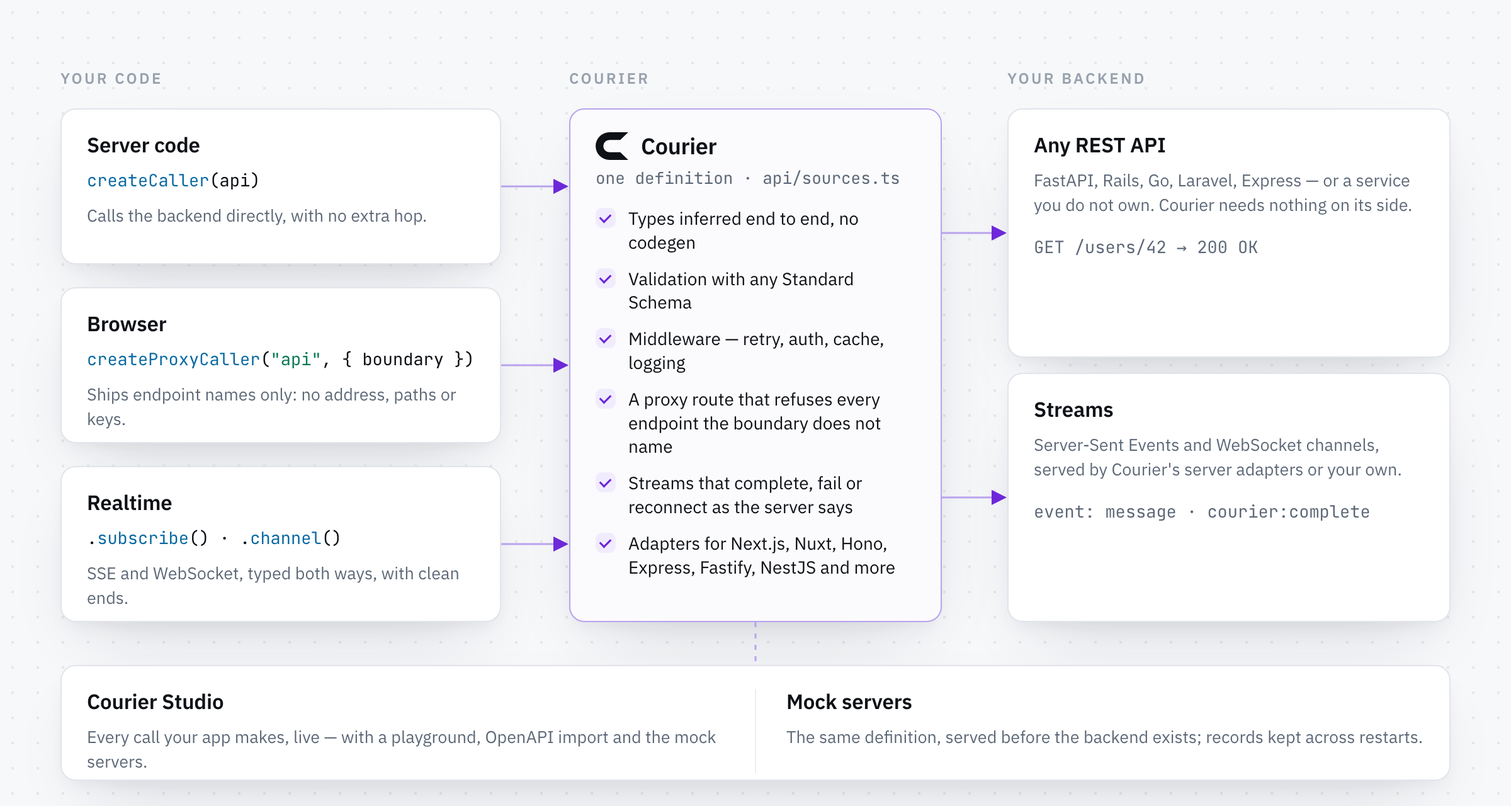
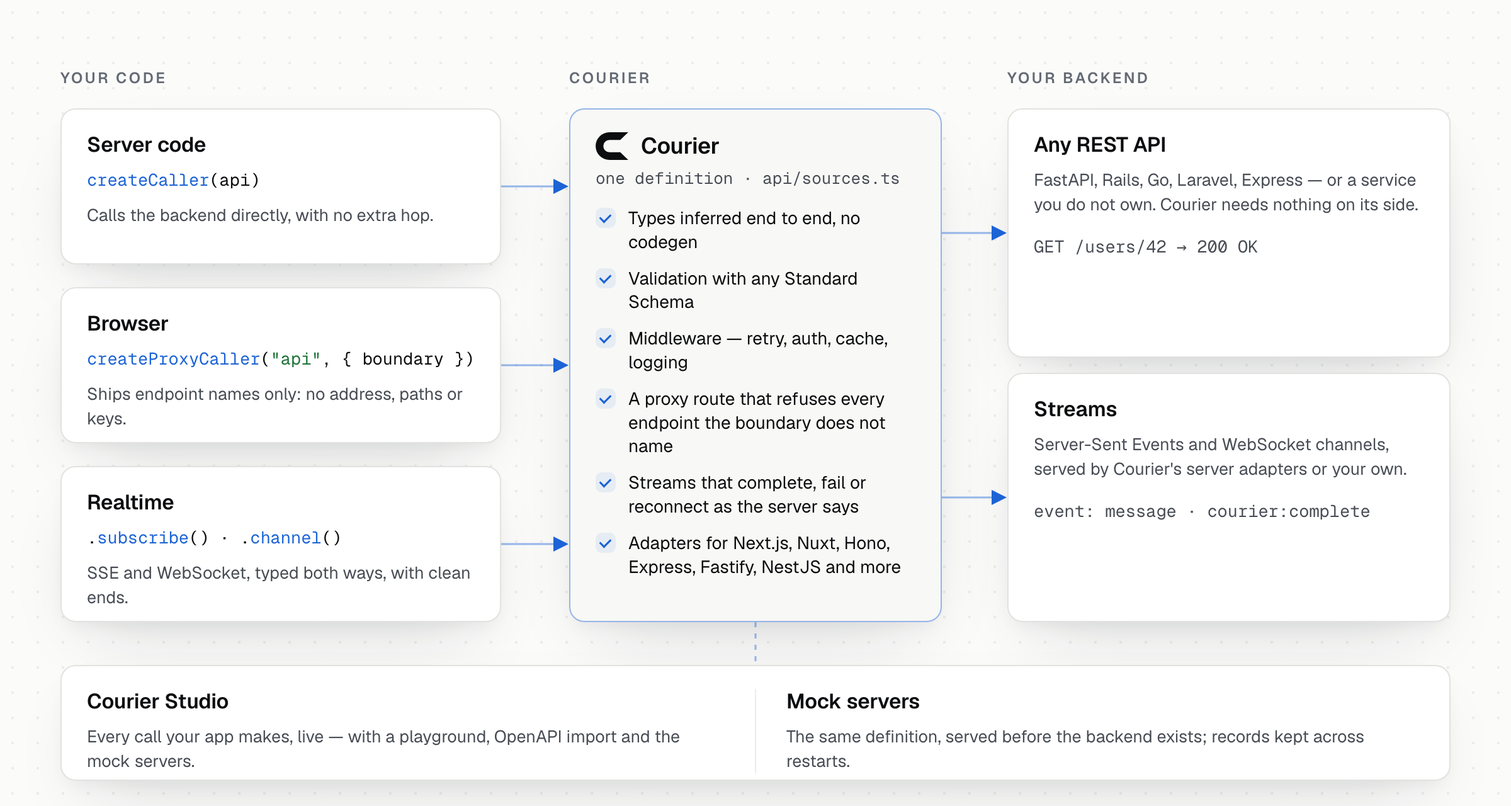
docs: 📝 restyle the README images and badges in the new brand
The hero and architecture images are drawn in the site's palette and
type, Geist and Geist Mono, with the blue accent, and the npm, CI,
TypeScript and licence badges of every README turn from violet to the
same blue on the site's dark ground.

diff --git a/.github/assets/src/hero.html b/.github/assets/src/hero.html
@@ -4,22 +4,22 @@
 <meta charset="utf-8">
 <title>Courier — README hero</title>
 <link rel="preconnect" href="https://fonts.googleapis.com">
-<link rel="stylesheet" href="https://fonts.googleapis.com/css2?family=IBM+Plex+Sans:wght@400;500;600&family=JetBrains+Mono:wght@400;500;600&display=block">
+<link rel="stylesheet" href="https://fonts.googleapis.com/css2?family=Geist:wght@400;500;600&family=Geist+Mono:wght@400;500;600&display=block">
 <style>
   :root {
-    --ground: #f7f8fa; --dots: rgba(14, 17, 22, .075);
-    --card: #ffffff; --chrome: #f2f3f6; --border: #e1e4ea; --hairline: #eceef2;
-    --text: #0e1116; --muted: #5d6877; --faint: #98a1ad;
-    --accent: #6d28d9; --accent-soft: #f1ecfd;
-    --kw: #7c3aed; --fn: #0b6aa2; --str: #0a7a52; --type: #a65a07; --punct: #6b7684;
-    --shadow: 0 1px 0 rgba(255,255,255,.6) inset, 0 40px 90px -20px rgba(23, 30, 45, .22), 0 12px 28px -8px rgba(23, 30, 45, .12);
+    --ground: #fbfbfa; --dots: rgba(12, 13, 15, .06);
+    --card: #ffffff; --chrome: #f4f4f2; --border: #e2e2df; --hairline: #ececea;
+    --text: #0c0d0f; --muted: #474c54; --faint: #646a73;
+    --accent: #1c63d6; --accent-soft: rgba(28, 99, 214, .08);
+    --kw: #7a3bd6; --fn: #1c63d6; --str: #1d7338; --type: #0b6f68; --punct: #5e646d;
+    --shadow: 0 1px 0 rgba(255,255,255,.6) inset, 0 40px 90px -20px rgba(24, 26, 32, .22), 0 12px 28px -8px rgba(24, 26, 32, .12);
   }
   :root[data-theme="dark"] {
-    --ground: #08090c; --dots: rgba(230, 234, 240, .055);
-    --card: #0e1116; --chrome: #12161c; --border: #1f252e; --hairline: #181d24;
-    --text: #e6eaf0; --muted: #8b95a3; --faint: #59626f;
-    --accent: #a78bfa; --accent-soft: rgba(167, 139, 250, .13);
-    --kw: #c4b5fd; --fn: #7dd3fc; --str: #86efac; --type: #fcd34d; --punct: #8b95a3;
+    --ground: #08090a; --dots: rgba(255, 255, 255, .045);
+    --card: #101114; --chrome: #0b0c0e; --border: #26272b; --hairline: #18191c;
+    --text: #f7f8f8; --muted: #a8aeb7; --faint: #9096a0;
+    --accent: #7db9ff; --accent-soft: rgba(125, 185, 255, .1);
+    --kw: #b8a1f5; --fn: #7db9ff; --str: #9bd68c; --type: #6fd3c7; --punct: #878d97;
     --shadow: 0 1px 0 rgba(255,255,255,.04) inset, 0 40px 90px -20px rgba(0, 0, 0, .7), 0 12px 28px -8px rgba(0, 0, 0, .5);
   }
   * { box-sizing: border-box; }
@@ -28,7 +28,7 @@
     display: grid; place-items: center;
     background-image: radial-gradient(var(--dots) 1.1px, transparent 1.2px);
     background-size: 20px 20px;
-    font-family: "IBM Plex Sans", system-ui, sans-serif;
+    font-family: "Geist", system-ui, sans-serif;
     -webkit-font-smoothing: antialiased;
   }
   .glow { position: absolute; inset: 0; background: radial-gradient(600px 300px at 50% 46%, var(--accent-soft), transparent 70%); }
@@ -36,21 +36,21 @@
   .bar { height: 46px; display: flex; align-items: center; gap: 8px; padding: 0 16px; background: var(--chrome); border-bottom: 1px solid var(--border); border-radius: 14px 14px 0 0; }
   .dot { width: 11px; height: 11px; border-radius: 50%; background: var(--border); }
   .tabs { display: flex; gap: 4px; margin-left: 14px; }
-  .tab { font: 500 13px/1 "IBM Plex Sans", sans-serif; color: var(--faint); padding: 8px 12px; border-radius: 7px; border: 1px solid transparent; }
+  .tab { font: 500 13px/1 "Geist", sans-serif; color: var(--faint); padding: 8px 12px; border-radius: 7px; border: 1px solid transparent; }
   .tab.on { color: var(--text); background: var(--card); border-color: var(--border); }
-  pre { margin: 0; padding: 26px 30px 262px; font: 400 16px/1.8 "JetBrains Mono", ui-monospace, monospace; color: var(--text); tab-size: 2; font-variant-ligatures: none; }
+  pre { margin: 0; padding: 26px 30px 262px; font: 400 16px/1.8 "Geist Mono", ui-monospace, monospace; color: var(--text); tab-size: 2; font-variant-ligatures: none; }
   .ln { display: inline-block; width: 26px; color: var(--faint); user-select: none; }
   .kw { color: var(--kw); } .fn { color: var(--fn); } .str { color: var(--str); } .ty { color: var(--type); } .p { color: var(--punct); }
   .cursor { display: inline-block; width: 2px; height: 21px; background: var(--accent); vertical-align: -5px; margin-left: 1px; border-radius: 1px; }
   .suggest { position: absolute; left: 352px; top: 262px; width: 500px; border: 1px solid var(--border); border-radius: 11px; background: var(--card); box-shadow: var(--shadow); overflow: hidden; }
-  .item { display: grid; grid-template-columns: 20px auto 1fr; align-items: center; gap: 12px; padding: 0 14px; height: 38px; font: 400 14.5px/1 "JetBrains Mono", monospace; color: var(--text); font-variant-ligatures: none; }
+  .item { display: grid; grid-template-columns: 20px auto 1fr; align-items: center; gap: 12px; padding: 0 14px; height: 38px; font: 400 14.5px/1 "Geist Mono", monospace; color: var(--text); font-variant-ligatures: none; }
   .item.on { background: var(--accent-soft); }
   .item.on .name { color: var(--accent); font-weight: 500; }
   .glyph { width: 16px; height: 16px; border-radius: 4px; border: 1.5px solid var(--accent); position: relative; }
   .glyph::after { content: ""; position: absolute; inset: 3px; border-radius: 1.5px; background: var(--accent); opacity: .55; }
   .sig { text-align: right; color: var(--muted); font-size: 12.5px; white-space: nowrap; overflow: hidden; text-overflow: ellipsis; }
   .sig .ty { color: var(--type); }
-  .foot { display: flex; justify-content: space-between; align-items: center; padding: 10px 14px; border-top: 1px solid var(--hairline); font: 400 12px/1 "IBM Plex Sans", sans-serif; color: var(--faint); }
+  .foot { display: flex; justify-content: space-between; align-items: center; padding: 10px 14px; border-top: 1px solid var(--hairline); font: 400 12px/1 "Geist", sans-serif; color: var(--faint); }
   .foot b { font-weight: 500; color: var(--muted); }
 </style>
 </head>

diff --git a/.github/assets/src/architecture.html b/.github/assets/src/architecture.html
@@ -4,22 +4,22 @@
 <meta charset="utf-8">
 <title>Courier — README architecture</title>
 <link rel="preconnect" href="https://fonts.googleapis.com">
-<link rel="stylesheet" href="https://fonts.googleapis.com/css2?family=IBM+Plex+Sans:wght@400;500;600&family=JetBrains+Mono:wght@400;500&display=block">
+<link rel="stylesheet" href="https://fonts.googleapis.com/css2?family=Geist:wght@400;500;600&family=Geist+Mono:wght@400;500;600&display=block">
 <style>
   :root {
-    --ground: #f7f8fa; --dots: rgba(14, 17, 22, .07);
-    --card: #ffffff; --raised: #fbfbfd; --border: #e1e4ea; --hairline: #eceef2;
-    --text: #0e1116; --muted: #5d6877; --faint: #98a1ad;
-    --accent: #6d28d9; --accent-soft: #f1ecfd; --accent-line: #b9a3ef;
-    --fn: #0b6aa2; --str: #0a7a52;
-    --shadow: 0 24px 60px -24px rgba(23, 30, 45, .18), 0 6px 16px -6px rgba(23, 30, 45, .08);
+    --ground: #fbfbfa; --dots: rgba(12, 13, 15, .06);
+    --card: #ffffff; --raised: #f8f8f6; --border: #e2e2df; --hairline: #ececea;
+    --text: #0c0d0f; --muted: #474c54; --faint: #646a73;
+    --accent: #1c63d6; --accent-soft: rgba(28, 99, 214, .08); --accent-line: rgba(28, 99, 214, .45);
+    --fn: #1c63d6; --str: #1d7338;
+    --shadow: 0 24px 60px -24px rgba(24, 26, 32, .18), 0 6px 16px -6px rgba(24, 26, 32, .08);
   }
   :root[data-theme="dark"] {
-    --ground: #08090c; --dots: rgba(230, 234, 240, .05);
-    --card: #0e1116; --raised: #12161c; --border: #1f252e; --hairline: #181d24;
-    --text: #e6eaf0; --muted: #8b95a3; --faint: #59626f;
-    --accent: #a78bfa; --accent-soft: rgba(167, 139, 250, .12); --accent-line: rgba(167, 139, 250, .55);
-    --fn: #7dd3fc; --str: #86efac;
+    --ground: #08090a; --dots: rgba(255, 255, 255, .045);
+    --card: #101114; --raised: #141619; --border: #26272b; --hairline: #18191c;
+    --text: #f7f8f8; --muted: #a8aeb7; --faint: #9096a0;
+    --accent: #7db9ff; --accent-soft: rgba(125, 185, 255, .1); --accent-line: rgba(125, 185, 255, .5);
+    --fn: #7db9ff; --str: #9bd68c;
     --shadow: 0 24px 60px -24px rgba(0, 0, 0, .7), 0 6px 16px -6px rgba(0, 0, 0, .45);
   }
   * { box-sizing: border-box; }
@@ -28,22 +28,22 @@
     position: relative;
     background-image: radial-gradient(var(--dots) 1.1px, transparent 1.2px);
     background-size: 20px 20px;
-    font-family: "IBM Plex Sans", system-ui, sans-serif; color: var(--text);
+    font-family: "Geist", system-ui, sans-serif; color: var(--text);
     -webkit-font-smoothing: antialiased;
   }
-  .label { position: absolute; top: 56px; font: 600 12px/1 "IBM Plex Sans", sans-serif; letter-spacing: .14em; text-transform: uppercase; color: var(--faint); }
+  .label { position: absolute; top: 56px; font: 600 12px/1 "Geist", sans-serif; letter-spacing: .14em; text-transform: uppercase; color: var(--faint); }
   .card { position: absolute; background: var(--card); border: 1px solid var(--border); border-radius: 12px; box-shadow: var(--shadow); padding: 18px 20px; }
-  .card h3 { margin: 0 0 8px; font: 600 16.5px/1.2 "IBM Plex Sans", sans-serif; letter-spacing: -.005em; }
-  .code { font: 400 13.5px/1.5 "JetBrains Mono", monospace; color: var(--text); font-variant-ligatures: none; }
+  .card h3 { margin: 0 0 8px; font: 600 16.5px/1.2 "Geist", sans-serif; letter-spacing: -.005em; }
+  .code { font: 400 13.5px/1.5 "Geist Mono", monospace; color: var(--text); font-variant-ligatures: none; }
   .code .fn { color: var(--fn); } .code .str { color: var(--str); }
-  .note { margin-top: 8px; font: 400 13.5px/1.45 "IBM Plex Sans", sans-serif; color: var(--muted); }
+  .note { margin-top: 8px; font: 400 13.5px/1.45 "Geist", sans-serif; color: var(--muted); }
   .core { background: var(--raised); border-color: var(--accent-line); }
   .brand { display: flex; align-items: center; gap: 10px; }
   .brand svg { width: 26px; height: 22px; }
-  .brand b { font: 600 18px/1 "IBM Plex Sans", sans-serif; letter-spacing: -.01em; }
-  .sub { margin: 8px 0 16px; font: 400 13px/1 "JetBrains Mono", monospace; color: var(--muted); }
+  .brand b { font: 600 18px/1 "Geist", sans-serif; letter-spacing: -.01em; }
+  .sub { margin: 8px 0 16px; font: 400 13px/1 "Geist Mono", monospace; color: var(--muted); }
   .rows { display: grid; gap: 11px; }
-  .row { display: grid; grid-template-columns: 16px 1fr; gap: 10px; align-items: start; font: 400 14px/1.35 "IBM Plex Sans", sans-serif; }
+  .row { display: grid; grid-template-columns: 16px 1fr; gap: 10px; align-items: start; font: 400 14px/1.35 "Geist", sans-serif; }
   .tick { width: 16px; height: 16px; border-radius: 5px; background: var(--accent-soft); position: relative; top: 1px; }
   .tick::after { content: ""; position: absolute; left: 5px; top: 3px; width: 4px; height: 7px; border: solid var(--accent); border-width: 0 1.6px 1.6px 0; transform: rotate(45deg); }
   .strip { display: grid; grid-template-columns: 1fr 1px 1fr; gap: 24px; align-items: start; }

diff --git a/README.md b/README.md
@@ -16,10 +16,10 @@
   </p>
 
   <p>
-    <a href="https://www.npmjs.com/package/@noverax/courier"><img alt="npm" src="https://img.shields.io/npm/v/@noverax/courier?style=flat-square&label=npm&labelColor=0e1116&color=6d28d9" /></a>
-    <a href="https://github.com/NoveraX/courier/actions/workflows/ci.yml"><img alt="CI" src="https://img.shields.io/github/actions/workflow/status/NoveraX/courier/ci.yml?branch=master&style=flat-square&label=ci&labelColor=0e1116" /></a>
-    <a href="https://www.typescriptlang.org/"><img alt="TypeScript strict" src="https://img.shields.io/badge/typescript-strict-6d28d9?style=flat-square&labelColor=0e1116" /></a>
-    <a href="./LICENSE"><img alt="MIT license" src="https://img.shields.io/badge/license-MIT-6d28d9?style=flat-square&labelColor=0e1116" /></a>
+    <a href="https://www.npmjs.com/package/@noverax/courier"><img alt="npm" src="https://img.shields.io/npm/v/@noverax/courier?style=flat-square&label=npm&labelColor=08090a&color=1c63d6" /></a>
+    <a href="https://github.com/NoveraX/courier/actions/workflows/ci.yml"><img alt="CI" src="https://img.shields.io/github/actions/workflow/status/NoveraX/courier/ci.yml?branch=master&style=flat-square&label=ci&labelColor=08090a" /></a>
+    <a href="https://www.typescriptlang.org/"><img alt="TypeScript strict" src="https://img.shields.io/badge/typescript-strict-1c63d6?style=flat-square&labelColor=08090a" /></a>
+    <a href="./LICENSE"><img alt="MIT license" src="https://img.shields.io/badge/license-MIT-1c63d6?style=flat-square&labelColor=08090a" /></a>
   </p>
 
   <p>
@@ -741,33 +741,33 @@ See [`@noverax/courier-studio`](./packages/studio) for setup and [How Studio loa
 
 | Package | | |
 | --- | --- | --- |
-| [`@noverax/courier`](./packages/core) | Caller factories, HTTP client, middleware, validation, realtime, testing | [![npm](https://img.shields.io/npm/v/@noverax/courier?style=flat-square&label=&labelColor=0e1116&color=6d28d9)](https://www.npmjs.com/package/@noverax/courier) |
-| [`@noverax/courier-react`](./packages/react) | `useQuery`, `useMutation`, `useSuspenseQuery`, `useInfiniteQuery`, `useSubscription`, `useComputedQuery`, `useChannel` | [![npm](https://img.shields.io/npm/v/@noverax/courier-react?style=flat-square&label=&labelColor=0e1116&color=6d28d9)](https://www.npmjs.com/package/@noverax/courier-react) |
-| [`@noverax/courier-next`](./packages/next) | `apiRoute` handler and `createAction` for Server Actions | [![npm](https://img.shields.io/npm/v/@noverax/courier-next?style=flat-square&label=&labelColor=0e1116&color=6d28d9)](https://www.npmjs.com/package/@noverax/courier-next) |
+| [`@noverax/courier`](./packages/core) | Caller factories, HTTP client, middleware, validation, realtime, testing | [![npm](https://img.shields.io/npm/v/@noverax/courier?style=flat-square&label=&labelColor=08090a&color=1c63d6)](https://www.npmjs.com/package/@noverax/courier) |
+| [`@noverax/courier-react`](./packages/react) | `useQuery`, `useMutation`, `useSuspenseQuery`, `useInfiniteQuery`, `useSubscription`, `useComputedQuery`, `useChannel` | [![npm](https://img.shields.io/npm/v/@noverax/courier-react?style=flat-square&label=&labelColor=08090a&color=1c63d6)](https://www.npmjs.com/package/@noverax/courier-react) |
+| [`@noverax/courier-next`](./packages/next) | `apiRoute` handler and `createAction` for Server Actions | [![npm](https://img.shields.io/npm/v/@noverax/courier-next?style=flat-square&label=&labelColor=08090a&color=1c63d6)](https://www.npmjs.com/package/@noverax/courier-next) |
 
 **Server adapters**
 
 | Package | | |
 | --- | --- | --- |
-| [`@noverax/courier-express`](./packages/express) | Express middleware | [![npm](https://img.shields.io/npm/v/@noverax/courier-express?style=flat-square&label=&labelColor=0e1116&color=6d28d9)](https://www.npmjs.com/package/@noverax/courier-express) |
-| [`@noverax/courier-fastify`](./packages/fastify) | Fastify plugin | [![npm](https://img.shields.io/npm/v/@noverax/courier-fastify?style=flat-square&label=&labelColor=0e1116&color=6d28d9)](https://www.npmjs.com/package/@noverax/courier-fastify) |
-| [`@noverax/courier-hono`](./packages/hono) | Hono handler, Web Standard | [![npm](https://img.shields.io/npm/v/@noverax/courier-hono?style=flat-square&label=&labelColor=0e1116&color=6d28d9)](https://www.npmjs.com/package/@noverax/courier-hono) |
-| [`@noverax/courier-nestjs`](./packages/nestjs) | NestJS middleware | [![npm](https://img.shields.io/npm/v/@noverax/courier-nestjs?style=flat-square&label=&labelColor=0e1116&color=6d28d9)](https://www.npmjs.com/package/@noverax/courier-nestjs) |
-| [`@noverax/courier-nuxt`](./packages/nuxt) | Nuxt, Nitro and h3 event handler | [![npm](https://img.shields.io/npm/v/@noverax/courier-nuxt?style=flat-square&label=&labelColor=0e1116&color=6d28d9)](https://www.npmjs.com/package/@noverax/courier-nuxt) |
-| [`@noverax/courier-astro`](./packages/astro) | Astro API endpoint | [![npm](https://img.shields.io/npm/v/@noverax/courier-astro?style=flat-square&label=&labelColor=0e1116&color=6d28d9)](https://www.npmjs.com/package/@noverax/courier-astro) |
-| [`@noverax/courier-remix`](./packages/remix) | Remix and React Router loaders and actions | [![npm](https://img.shields.io/npm/v/@noverax/courier-remix?style=flat-square&label=&labelColor=0e1116&color=6d28d9)](https://www.npmjs.com/package/@noverax/courier-remix) |
-| [`@noverax/courier-solid`](./packages/solid) | SolidStart adapter and Solid primitives | [![npm](https://img.shields.io/npm/v/@noverax/courier-solid?style=flat-square&label=&labelColor=0e1116&color=6d28d9)](https://www.npmjs.com/package/@noverax/courier-solid) |
-| [`@noverax/courier-sveltekit`](./packages/sveltekit) | SvelteKit endpoint | [![npm](https://img.shields.io/npm/v/@noverax/courier-sveltekit?style=flat-square&label=&labelColor=0e1116&color=6d28d9)](https://www.npmjs.com/package/@noverax/courier-sveltekit) |
-| [`@noverax/courier-server`](./packages/server) | Standalone HTTP, SSE and WebSocket server | [![npm](https://img.shields.io/npm/v/@noverax/courier-server?style=flat-square&label=&labelColor=0e1116&color=6d28d9)](https://www.npmjs.com/package/@noverax/courier-server) |
-| [`@noverax/courier-redis`](./packages/redis) | Redis pub/sub for WebSocket across replicas | [![npm](https://img.shields.io/npm/v/@noverax/courier-redis?style=flat-square&label=&labelColor=0e1116&color=6d28d9)](https://www.npmjs.com/package/@noverax/courier-redis) |
+| [`@noverax/courier-express`](./packages/express) | Express middleware | [![npm](https://img.shields.io/npm/v/@noverax/courier-express?style=flat-square&label=&labelColor=08090a&color=1c63d6)](https://www.npmjs.com/package/@noverax/courier-express) |
+| [`@noverax/courier-fastify`](./packages/fastify) | Fastify plugin | [![npm](https://img.shields.io/npm/v/@noverax/courier-fastify?style=flat-square&label=&labelColor=08090a&color=1c63d6)](https://www.npmjs.com/package/@noverax/courier-fastify) |
+| [`@noverax/courier-hono`](./packages/hono) | Hono handler, Web Standard | [![npm](https://img.shields.io/npm/v/@noverax/courier-hono?style=flat-square&label=&labelColor=08090a&color=1c63d6)](https://www.npmjs.com/package/@noverax/courier-hono) |
+| [`@noverax/courier-nestjs`](./packages/nestjs) | NestJS middleware | [![npm](https://img.shields.io/npm/v/@noverax/courier-nestjs?style=flat-square&label=&labelColor=08090a&color=1c63d6)](https://www.npmjs.com/package/@noverax/courier-nestjs) |
+| [`@noverax/courier-nuxt`](./packages/nuxt) | Nuxt, Nitro and h3 event handler | [![npm](https://img.shields.io/npm/v/@noverax/courier-nuxt?style=flat-square&label=&labelColor=08090a&color=1c63d6)](https://www.npmjs.com/package/@noverax/courier-nuxt) |
+| [`@noverax/courier-astro`](./packages/astro) | Astro API endpoint | [![npm](https://img.shields.io/npm/v/@noverax/courier-astro?style=flat-square&label=&labelColor=08090a&color=1c63d6)](https://www.npmjs.com/package/@noverax/courier-astro) |
+| [`@noverax/courier-remix`](./packages/remix) | Remix and React Router loaders and actions | [![npm](https://img.shields.io/npm/v/@noverax/courier-remix?style=flat-square&label=&labelColor=08090a&color=1c63d6)](https://www.npmjs.com/package/@noverax/courier-remix) |
+| [`@noverax/courier-solid`](./packages/solid) | SolidStart adapter and Solid primitives | [![npm](https://img.shields.io/npm/v/@noverax/courier-solid?style=flat-square&label=&labelColor=08090a&color=1c63d6)](https://www.npmjs.com/package/@noverax/courier-solid) |
+| [`@noverax/courier-sveltekit`](./packages/sveltekit) | SvelteKit endpoint | [![npm](https://img.shields.io/npm/v/@noverax/courier-sveltekit?style=flat-square&label=&labelColor=08090a&color=1c63d6)](https://www.npmjs.com/package/@noverax/courier-sveltekit) |
+| [`@noverax/courier-server`](./packages/server) | Standalone HTTP, SSE and WebSocket server | [![npm](https://img.shields.io/npm/v/@noverax/courier-server?style=flat-square&label=&labelColor=08090a&color=1c63d6)](https://www.npmjs.com/package/@noverax/courier-server) |
+| [`@noverax/courier-redis`](./packages/redis) | Redis pub/sub for WebSocket across replicas | [![npm](https://img.shields.io/npm/v/@noverax/courier-redis?style=flat-square&label=&labelColor=08090a&color=1c63d6)](https://www.npmjs.com/package/@noverax/courier-redis) |
 
 **Development**
 
 | Package | | |
 | --- | --- | --- |
-| [`@noverax/courier-studio`](./packages/studio) | Studio — request inspector, playground, OpenAPI import, mock servers | [![npm](https://img.shields.io/npm/v/@noverax/courier-studio?style=flat-square&label=&labelColor=0e1116&color=6d28d9)](https://www.npmjs.com/package/@noverax/courier-studio) |
-| [`@noverax/courier-studio-core`](./packages/studio-core) | Studio runtime — `attachRuntime` for your instrumentation | [![npm](https://img.shields.io/npm/v/@noverax/courier-studio-core?style=flat-square&label=&labelColor=0e1116&color=6d28d9)](https://www.npmjs.com/package/@noverax/courier-studio-core) |
-| [`@noverax/courier-mock`](./packages/mock) | Mock servers, test utilities, contract testing and fixtures | [![npm](https://img.shields.io/npm/v/@noverax/courier-mock?style=flat-square&label=&labelColor=0e1116&color=6d28d9)](https://www.npmjs.com/package/@noverax/courier-mock) |
+| [`@noverax/courier-studio`](./packages/studio) | Studio — request inspector, playground, OpenAPI import, mock servers | [![npm](https://img.shields.io/npm/v/@noverax/courier-studio?style=flat-square&label=&labelColor=08090a&color=1c63d6)](https://www.npmjs.com/package/@noverax/courier-studio) |
+| [`@noverax/courier-studio-core`](./packages/studio-core) | Studio runtime — `attachRuntime` for your instrumentation | [![npm](https://img.shields.io/npm/v/@noverax/courier-studio-core?style=flat-square&label=&labelColor=08090a&color=1c63d6)](https://www.npmjs.com/package/@noverax/courier-studio-core) |
+| [`@noverax/courier-mock`](./packages/mock) | Mock servers, test utilities, contract testing and fixtures | [![npm](https://img.shields.io/npm/v/@noverax/courier-mock?style=flat-square&label=&labelColor=08090a&color=1c63d6)](https://www.npmjs.com/package/@noverax/courier-mock) |
 
 <br />
 

diff --git a/packages/studio-core/README.md b/packages/studio-core/README.md
@@ -12,8 +12,8 @@
   <p><strong>Instrumentation core for Courier Studio — `attachRuntime`, EventBus, event types, and Socket.IO connector.</strong></p>
 
   <p>
-    <a href="https://www.npmjs.com/package/@noverax/courier-studio-core"><img alt="npm" src="https://img.shields.io/npm/v/@noverax/courier-studio-core?style=flat-square&label=npm&labelColor=0e1116&color=6d28d9" /></a>
-    <a href="https://github.com/NoveraX/courier/blob/master/LICENSE"><img alt="MIT license" src="https://img.shields.io/badge/license-MIT-6d28d9?style=flat-square&labelColor=0e1116" /></a>
+    <a href="https://www.npmjs.com/package/@noverax/courier-studio-core"><img alt="npm" src="https://img.shields.io/npm/v/@noverax/courier-studio-core?style=flat-square&label=npm&labelColor=08090a&color=1c63d6" /></a>
+    <a href="https://github.com/NoveraX/courier/blob/master/LICENSE"><img alt="MIT license" src="https://img.shields.io/badge/license-MIT-1c63d6?style=flat-square&labelColor=08090a" /></a>
   </p>
 
   <p>

diff --git a/packages/studio/README.md b/packages/studio/README.md
@@ -12,8 +12,8 @@
   <p><strong>Visual debugging studio for Courier — inspect requests, explore endpoints, and monitor your API in real time.</strong></p>
 
   <p>
-    <a href="https://www.npmjs.com/package/@noverax/courier-studio"><img alt="npm" src="https://img.shields.io/npm/v/@noverax/courier-studio?style=flat-square&label=npm&labelColor=0e1116&color=6d28d9" /></a>
-    <a href="https://github.com/NoveraX/courier/blob/master/LICENSE"><img alt="MIT license" src="https://img.shields.io/badge/license-MIT-6d28d9?style=flat-square&labelColor=0e1116" /></a>
+    <a href="https://www.npmjs.com/package/@noverax/courier-studio"><img alt="npm" src="https://img.shields.io/npm/v/@noverax/courier-studio?style=flat-square&label=npm&labelColor=08090a&color=1c63d6" /></a>
+    <a href="https://github.com/NoveraX/courier/blob/master/LICENSE"><img alt="MIT license" src="https://img.shields.io/badge/license-MIT-1c63d6?style=flat-square&labelColor=08090a" /></a>
   </p>
 
   <p>

diff --git a/packages/react/README.md b/packages/react/README.md
@@ -12,8 +12,8 @@
   <p><strong>React integration for Courier — query hooks, streams and channels, query keys, zero boilerplate.</strong></p>
 
   <p>
-    <a href="https://www.npmjs.com/package/@noverax/courier-react"><img alt="npm" src="https://img.shields.io/npm/v/@noverax/courier-react?style=flat-square&label=npm&labelColor=0e1116&color=6d28d9" /></a>
-    <a href="https://github.com/NoveraX/courier/blob/master/LICENSE"><img alt="MIT license" src="https://img.shields.io/badge/license-MIT-6d28d9?style=flat-square&labelColor=0e1116" /></a>
+    <a href="https://www.npmjs.com/package/@noverax/courier-react"><img alt="npm" src="https://img.shields.io/npm/v/@noverax/courier-react?style=flat-square&label=npm&labelColor=08090a&color=1c63d6" /></a>
+    <a href="https://github.com/NoveraX/courier/blob/master/LICENSE"><img alt="MIT license" src="https://img.shields.io/badge/license-MIT-1c63d6?style=flat-square&labelColor=08090a" /></a>
   </p>
 
   <p>

diff --git a/packages/mock/README.md b/packages/mock/README.md
@@ -12,8 +12,8 @@
   <p><strong>Type-safe mock server with stateful store, scenarios, and test utilities for Courier.</strong></p>
 
   <p>
-    <a href="https://www.npmjs.com/package/@noverax/courier-mock"><img alt="npm" src="https://img.shields.io/npm/v/@noverax/courier-mock?style=flat-square&label=npm&labelColor=0e1116&color=6d28d9" /></a>
-    <a href="https://github.com/NoveraX/courier/blob/master/LICENSE"><img alt="MIT license" src="https://img.shields.io/badge/license-MIT-6d28d9?style=flat-square&labelColor=0e1116" /></a>
+    <a href="https://www.npmjs.com/package/@noverax/courier-mock"><img alt="npm" src="https://img.shields.io/npm/v/@noverax/courier-mock?style=flat-square&label=npm&labelColor=08090a&color=1c63d6" /></a>
+    <a href="https://github.com/NoveraX/courier/blob/master/LICENSE"><img alt="MIT license" src="https://img.shields.io/badge/license-MIT-1c63d6?style=flat-square&labelColor=08090a" /></a>
   </p>
 
   <p>

diff --git a/packages/redis/README.md b/packages/redis/README.md
@@ -12,8 +12,8 @@
   <p><strong>Redis adapters for Courier realtime — Pub/Sub broadcast + Streams persistence.</strong></p>
 
   <p>
-    <a href="https://www.npmjs.com/package/@noverax/courier-redis"><img alt="npm" src="https://img.shields.io/npm/v/@noverax/courier-redis?style=flat-square&label=npm&labelColor=0e1116&color=6d28d9" /></a>
-    <a href="https://github.com/NoveraX/courier/blob/master/LICENSE"><img alt="MIT license" src="https://img.shields.io/badge/license-MIT-6d28d9?style=flat-square&labelColor=0e1116" /></a>
+    <a href="https://www.npmjs.com/package/@noverax/courier-redis"><img alt="npm" src="https://img.shields.io/npm/v/@noverax/courier-redis?style=flat-square&label=npm&labelColor=08090a&color=1c63d6" /></a>
+    <a href="https://github.com/NoveraX/courier/blob/master/LICENSE"><img alt="MIT license" src="https://img.shields.io/badge/license-MIT-1c63d6?style=flat-square&labelColor=08090a" /></a>
   </p>
 
   <p>

diff --git a/packages/next/README.md b/packages/next/README.md
@@ -12,8 +12,8 @@
   <p><strong>Next.js adapter — API route handler + Server Actions.</strong></p>
 
   <p>
-    <a href="https://www.npmjs.com/package/@noverax/courier-next"><img alt="npm" src="https://img.shields.io/npm/v/@noverax/courier-next?style=flat-square&label=npm&labelColor=0e1116&color=6d28d9" /></a>
-    <a href="https://github.com/NoveraX/courier/blob/master/LICENSE"><img alt="MIT license" src="https://img.shields.io/badge/license-MIT-6d28d9?style=flat-square&labelColor=0e1116" /></a>
+    <a href="https://www.npmjs.com/package/@noverax/courier-next"><img alt="npm" src="https://img.shields.io/npm/v/@noverax/courier-next?style=flat-square&label=npm&labelColor=08090a&color=1c63d6" /></a>
+    <a href="https://github.com/NoveraX/courier/blob/master/LICENSE"><img alt="MIT license" src="https://img.shields.io/badge/license-MIT-1c63d6?style=flat-square&labelColor=08090a" /></a>
   </p>
 
   <p>

diff --git a/packages/server/README.md b/packages/server/README.md
@@ -12,8 +12,8 @@
   <p><strong>Standalone HTTP + WebSocket server for Courier.</strong></p>
 
   <p>
-    <a href="https://www.npmjs.com/package/@noverax/courier-server"><img alt="npm" src="https://img.shields.io/npm/v/@noverax/courier-server?style=flat-square&label=npm&labelColor=0e1116&color=6d28d9" /></a>
-    <a href="https://github.com/NoveraX/courier/blob/master/LICENSE"><img alt="MIT license" src="https://img.shields.io/badge/license-MIT-6d28d9?style=flat-square&labelColor=0e1116" /></a>
+    <a href="https://www.npmjs.com/package/@noverax/courier-server"><img alt="npm" src="https://img.shields.io/npm/v/@noverax/courier-server?style=flat-square&label=npm&labelColor=08090a&color=1c63d6" /></a>
+    <a href="https://github.com/NoveraX/courier/blob/master/LICENSE"><img alt="MIT license" src="https://img.shields.io/badge/license-MIT-1c63d6?style=flat-square&labelColor=08090a" /></a>
   </p>
 
   <p>

diff --git a/packages/sveltekit/README.md b/packages/sveltekit/README.md
@@ -12,8 +12,8 @@
   <p><strong>SvelteKit adapter for Courier.</strong></p>
 
   <p>
-    <a href="https://www.npmjs.com/package/@noverax/courier-sveltekit"><img alt="npm" src="https://img.shields.io/npm/v/@noverax/courier-sveltekit?style=flat-square&label=npm&labelColor=0e1116&color=6d28d9" /></a>
-    <a href="https://github.com/NoveraX/courier/blob/master/LICENSE"><img alt="MIT license" src="https://img.shields.io/badge/license-MIT-6d28d9?style=flat-square&labelColor=0e1116" /></a>
+    <a href="https://www.npmjs.com/package/@noverax/courier-sveltekit"><img alt="npm" src="https://img.shields.io/npm/v/@noverax/courier-sveltekit?style=flat-square&label=npm&labelColor=08090a&color=1c63d6" /></a>
+    <a href="https://github.com/NoveraX/courier/blob/master/LICENSE"><img alt="MIT license" src="https://img.shields.io/badge/license-MIT-1c63d6?style=flat-square&labelColor=08090a" /></a>
   </p>
 
   <p>

diff --git a/packages/core/README.md b/packages/core/README.md
@@ -12,8 +12,8 @@
   <p><strong>Core package — type-safe API client with zero runtime dependencies.</strong></p>
 
   <p>
-    <a href="https://www.npmjs.com/package/@noverax/courier"><img alt="npm" src="https://img.shields.io/npm/v/@noverax/courier?style=flat-square&label=npm&labelColor=0e1116&color=6d28d9" /></a>
-    <a href="https://github.com/NoveraX/courier/blob/master/LICENSE"><img alt="MIT license" src="https://img.shields.io/badge/license-MIT-6d28d9?style=flat-square&labelColor=0e1116" /></a>
+    <a href="https://www.npmjs.com/package/@noverax/courier"><img alt="npm" src="https://img.shields.io/npm/v/@noverax/courier?style=flat-square&label=npm&labelColor=08090a&color=1c63d6" /></a>
+    <a href="https://github.com/NoveraX/courier/blob/master/LICENSE"><img alt="MIT license" src="https://img.shields.io/badge/license-MIT-1c63d6?style=flat-square&labelColor=08090a" /></a>
   </p>
 
   <p>
